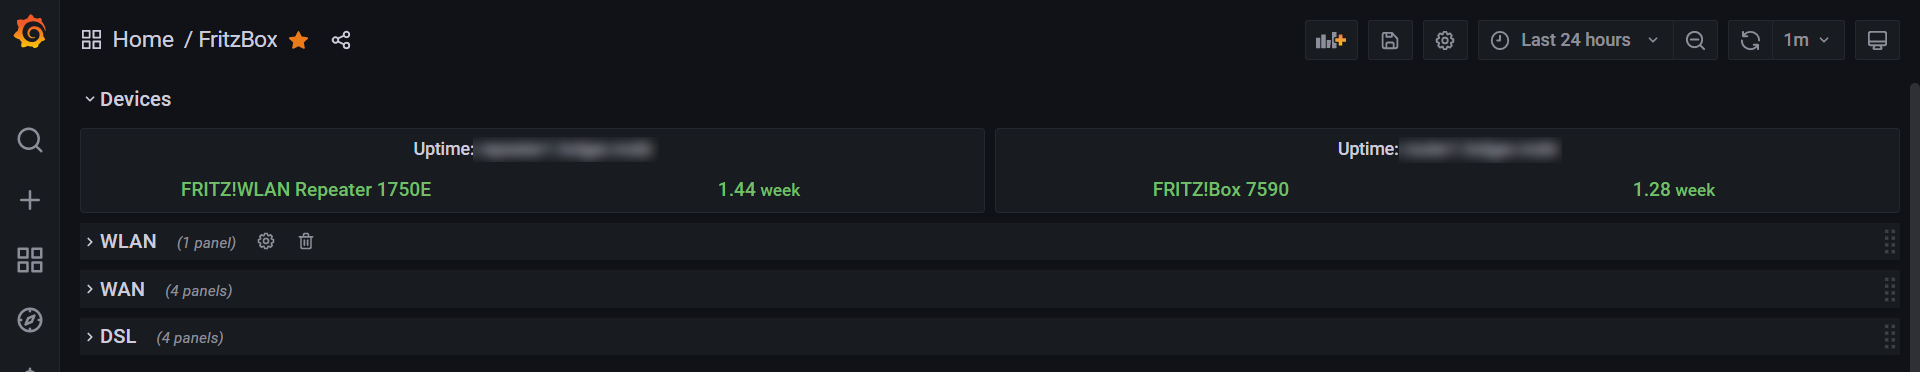
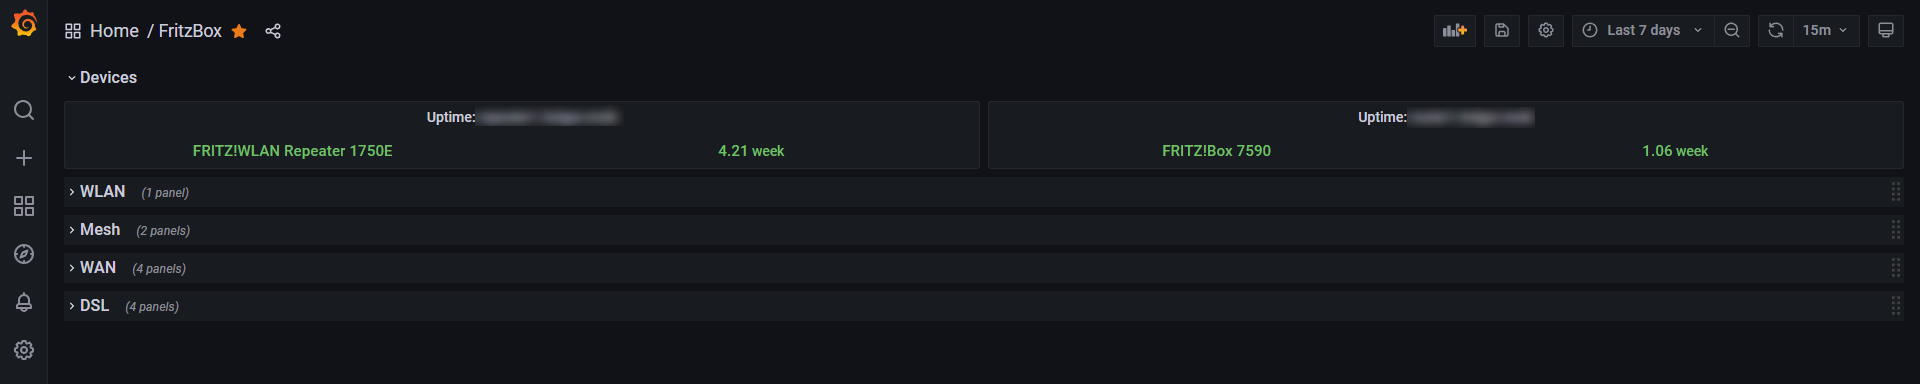
Add fritz_mesh measurement to docs

diff --git a/README.md b/README.md
@@ -70,6 +70,15 @@ For every device and every configured WLAN (2.4 GHz and 5 GHz are considered sep
 
 ![WLAN Info](docs/screen_wlan.png)
 
+#### Mesh Info (get_mesh_info)
+Reports the **fritzbox_mesh** measurement:
+```
+fritzbox_mesh,fritz_device=fritz.box,fritz_mesh_node_link=slave1:WLAN:UPLINK:5G:0,fritz_mesh_node_name=slave1,fritz_mesh_node_type=WLAN,service=Hosts1 max_data_rate_rx=1300000i,max_data_rate_tx=1300000i,cur_data_rate_rx=1300000i,cur_data_rate_tx=1170000i 1647924367458027000
+```
+The current links as well as their stats are reported.
+
+![Mesh Info](docs/screen_mesh.png)
+
 #### WAN Info (get_wan_info)
 Reports the **fritzbox_wan** measurement:
 ```
@@ -94,13 +103,6 @@ Reports the **fritzbox_ppp** measurement:
 fritzbox_ppp,fritz_device=fritz.box,service=WANPPPConnection1 upstream_max_bit_rate=45048452i,downstream_max_bit_rate=56093007i,uptime=774164i 1647204091697400000
 ```
 The current PPP stats are reported, especially the uptime (in seconds). The latter is shown in the WAN graph example above.
-
-#### Mesh Info (get_mesh_info)
-Reports the **fritzbox_mesh** measurement:
-```
-fritzbox_mesh,fritz_device=fritz.box,fritz_mesh_node_link=slave1:WLAN:UPLINK:5G:0,fritz_mesh_node_name=slave1,fritz_mesh_node_type=WLAN,service=Hosts1 max_data_rate_rx=1300000i,max_data_rate_tx=1300000i,cur_data_rate_rx=1300000i,cur_data_rate_tx=1170000i 1647924367458027000
-```
-The current links as well as their stats are reported.
 
 ### License
 This project is subject to the the MIT License.

diff --git a/docs/index.md b/docs/index.md
@@ -75,6 +75,15 @@ The current stats of the WAN link are reported (bandwidth, current rates, transf
 
 ![WAN Info](screen_wan.png)
 
+#### Mesh Info (get_mesh_info)
+Reports the **fritzbox_mesh** measurement:
+```
+fritzbox_mesh,fritz_device=fritz.box,fritz_mesh_node_link=slave1:WLAN:UPLINK:5G:0,fritz_mesh_node_name=slave1,fritz_mesh_node_type=WLAN,service=Hosts1 max_data_rate_rx=1300000i,max_data_rate_tx=1300000i,cur_data_rate_rx=1300000i,cur_data_rate_tx=1170000i 1647924367458027000
+```
+The current links as well as their stats are reported.
+
+![Mesh Info](screen_mesh.png)
+
 #### DSL Info (get_dsl_info)
 Reports the **fritzbox_dsl** measurement:
 ```
@@ -90,13 +99,6 @@ Reports the **fritzbox_ppp** measurement:
 fritzbox_ppp,fritz_device=fritz.box,service=WANPPPConnection1 upstream_max_bit_rate=45048452i,downstream_max_bit_rate=56093007i,uptime=774164i 1647204091697400000
 ```
 The current PPP stats are reported, especially the uptime (in seconds). The latter is shown in the WAN graph example above.
-
-#### Mesh Info (get_mesh_info)
-Reports the **fritzbox_mesh** measurement:
-```
-fritzbox_mesh,fritz_device=fritz.box,fritz_mesh_node_link=slave1:WLAN:UPLINK:5G:0,fritz_mesh_node_name=slave1,fritz_mesh_node_type=WLAN,service=Hosts1 max_data_rate_rx=1300000i,max_data_rate_tx=1300000i,cur_data_rate_rx=1300000i,cur_data_rate_tx=1170000i 1647924367458027000
-```
-The current links as well as their stats are reported.
 
 ### License
 This project is subject to the the MIT License.

diff --git a/CHANGELOG.md b/CHANGELOG.md
@@ -16,3 +16,6 @@ SOFTWARE.
 
 ### v0.1.2 (2022-03-19)
 * Provide pre-build archives
+
+### v0.2.0 (2022-04-02)
+* Add fritz_mesh measurement
